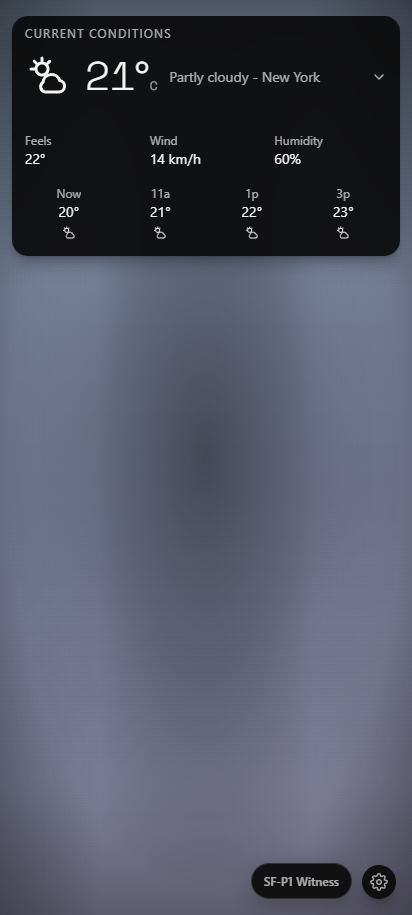
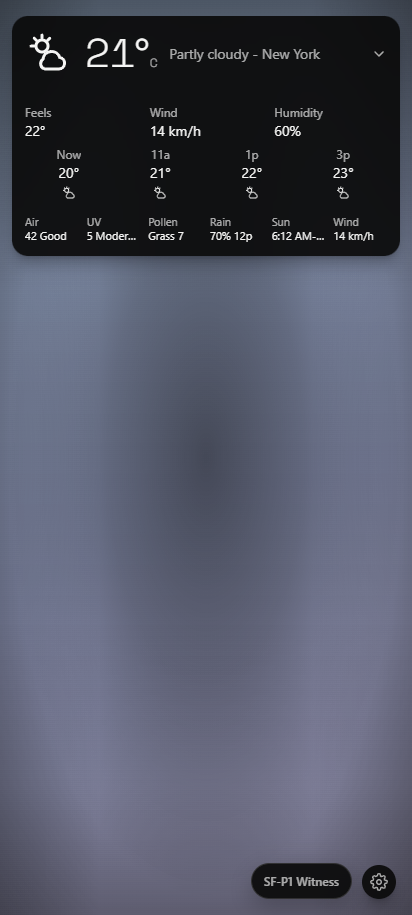
test: align On This Day overflow contract

diff --git a/src/newtab/widgetSizeContracts.ts b/src/newtab/widgetSizeContracts.ts
@@ -255,7 +255,7 @@ export const WIDGET_PRESENTATION_CONTRACTS: Readonly<Record<BlockId, WidgetPrese
       signature: ['historical event'],
       supporting: ['provider attribution'],
       narrowSafety: ['tighten spacing', 'clamp event summary'],
-      overflow: { kind: 'provider', label: 'More on Wikipedia' },
+      overflow: { kind: 'provider', label: 'Read more on Wikipedia' },
     },
     standard: {
       purpose: 'Three historical events for the local date',
@@ -263,7 +263,7 @@ export const WIDGET_PRESENTATION_CONTRACTS: Readonly<Record<BlockId, WidgetPrese
       signature: ['historical event list'],
       supporting: ['provider attribution'],
       narrowSafety: ['tighten spacing', 'clamp event summaries'],
-      overflow: { kind: 'provider', label: 'More on Wikipedia' },
+      overflow: { kind: 'provider', label: 'Read more on Wikipedia' },
     },
     full: {
       purpose: 'Historical events, births, and deaths for the local date',
@@ -271,7 +271,7 @@ export const WIDGET_PRESENTATION_CONTRACTS: Readonly<Record<BlockId, WidgetPrese
       signature: ['historical event list'],
       supporting: ['births', 'deaths', 'provider attribution'],
       narrowSafety: ['tighten spacing', 'clamp event summaries', 'clamp birth and death summaries'],
-      overflow: { kind: 'provider', label: 'More on Wikipedia' },
+      overflow: { kind: 'provider', label: 'Read more on Wikipedia' },
     },
   }),
   publicHolidays: framedContract(['compact', 'standard', 'full'], ['compact', 'standard', 'full'], SETUP_RESOURCE_STATES, 'Next national holiday', 'Next three national holidays', 'Current and next-year national holidays', 'Next holiday and date', {

diff --git a/src/newtab/widgetSizeContracts.test.ts b/src/newtab/widgetSizeContracts.test.ts
@@ -133,7 +133,7 @@ describe('shared frame presentation contracts', () => {
       signature: ['historical event list'],
       supporting: ['provider attribution'],
       narrowSafety: ['tighten spacing', 'clamp event summaries'],
-      overflow: { kind: 'provider', label: 'More on Wikipedia' },
+      overflow: { kind: 'provider', label: 'Read more on Wikipedia' },
     })
   })
 
